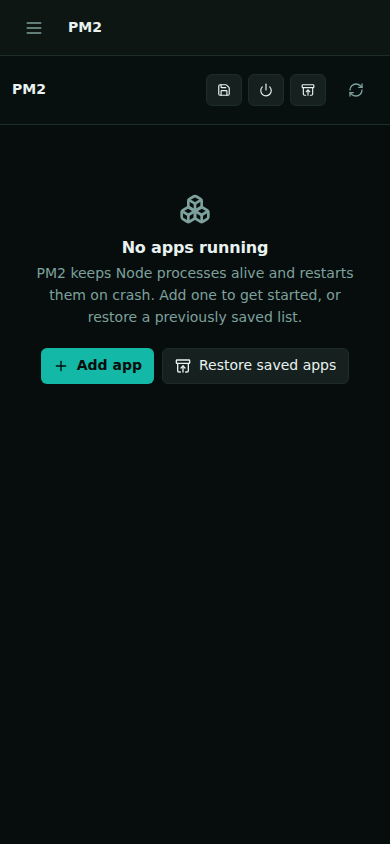
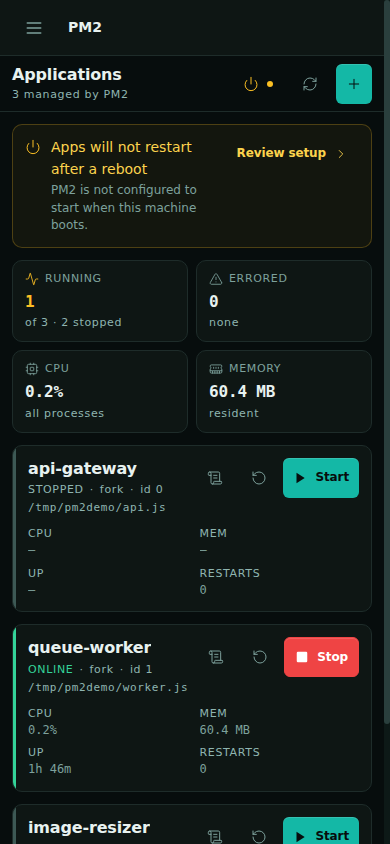
docs: update readme, refresh pm2 screenshots

diff --git a/README.md b/README.md
@@ -6,10 +6,26 @@
 
 System monitoring · file management · web terminal · process control · PM2 orchestration · Git sync
 
-[![License: MIT](https://img.shields.io/badge/License-MIT-14b8a6.svg)](./LICENSE)
-[![Node](https://img.shields.io/badge/Node-%E2%89%A518-339933.svg)](https://nodejs.org)
-[![React](https://img.shields.io/badge/React-18-61dafb.svg)](https://react.dev)
-[![TypeScript](https://img.shields.io/badge/TypeScript-5.6-3178c6.svg)](https://www.typescriptlang.org)
+[![License: MIT](https://img.shields.io/badge/License-MIT-14b8a6.svg?style=for-the-badge)](./LICENSE)
+[![PRs welcome](https://img.shields.io/badge/PRs-welcome-14b8a6.svg?style=for-the-badge)](#development)
+[![Platform: Linux](https://img.shields.io/badge/Platform-Linux-FCC624.svg?style=for-the-badge&logo=linux&logoColor=black)](#requirements)
+
+### Built with
+
+[![React](https://img.shields.io/badge/React-18-61DAFB?style=for-the-badge&logo=react&logoColor=black)](https://react.dev)
+[![TypeScript](https://img.shields.io/badge/TypeScript-5.6-3178C6?style=for-the-badge&logo=typescript&logoColor=white)](https://www.typescriptlang.org)
+[![Vite](https://img.shields.io/badge/Vite-6-646CFF?style=for-the-badge&logo=vite&logoColor=white)](https://vite.dev)
+[![Tailwind CSS](https://img.shields.io/badge/Tailwind-3-06B6D4?style=for-the-badge&logo=tailwindcss&logoColor=white)](https://tailwindcss.com)
+
+[![Node.js](https://img.shields.io/badge/Node.js-%E2%89%A518-5FA04E?style=for-the-badge&logo=nodedotjs&logoColor=white)](https://nodejs.org)
+[![Express](https://img.shields.io/badge/Express-4-000000?style=for-the-badge&logo=express&logoColor=white)](https://expressjs.com)
+[![Socket.IO](https://img.shields.io/badge/Socket.IO-4-010101?style=for-the-badge&logo=socketdotio&logoColor=white)](https://socket.io)
+[![PM2](https://img.shields.io/badge/PM2-2B037A?style=for-the-badge&logo=pm2&logoColor=white)](https://pm2.keymetrics.io)
+
+[![CodeMirror](https://img.shields.io/badge/CodeMirror-6-D30707?style=for-the-badge&logo=codemirror&logoColor=white)](https://codemirror.net)
+[![xterm.js](https://img.shields.io/badge/xterm.js-5-2C3E50?style=for-the-badge&logo=gnometerminal&logoColor=white)](https://xtermjs.org)
+[![Git](https://img.shields.io/badge/Git-F05032?style=for-the-badge&logo=git&logoColor=white)](https://git-scm.com)
+[![Systemd](https://img.shields.io/badge/systemd-30B9DB?style=for-the-badge&logo=systemd&logoColor=white)](https://systemd.io)
 
 </div>
 
@@ -43,15 +59,10 @@ It is deliberately **single-user**: one password, one operator. There are no use
 accounts, roles, or teams. That keeps the security surface small and the UI honest —
 every control on screen acts on the machine immediately.
 
-**Design principles**
-
-| Principle | What it means in practice |
-|---|---|
-| Colour carries meaning | The teal accent marks interaction only. Red/amber/green are reserved for state — never decoration. |
-| Machine data is monospaced | Hostnames, IPs, load averages and byte counts use tabular figures so columns align. |
-| Destructive actions look destructive | Service restarts and process kills are visually separated from read-only lookups. |
-| Accessible by default | WCAG 2.1 AA contrast, visible keyboard focus, `prefers-reduced-motion` respected. |
-| Responsive, not "mobile-adapted" | Every view is verified at 390 px and 1440 px. |
+It is also **host-agnostic**. Paths, the effective user, the SSH identity, the init
+system and PM2's home directory are all detected at boot rather than hard-coded, so
+the panel behaves correctly whether it runs as `root` on Debian or as a normal user
+on Ubuntu.
 
 ---
 
@@ -123,10 +134,27 @@ termination.
 
 ### PM2
 
-Start, stop, restart, reload, delete and inspect PM2 applications. Streams logs over
-WebSocket, and supports saving, restoring and boot-persisting the process list.
+Start, stop, restart, reload, delete and inspect PM2 applications. Logs stream over
+WebSocket into a single docked panel rather than expanding inline under each card.
+Stopped applications show `—` for CPU, memory and uptime instead of counting upward
+from a stale `pm_uptime`.
 
 ![PM2](docs/screenshots/PM2.png)
+
+Boot persistence is reported as three separate facts, because "will my app come back
+after a reboot?" is three questions and conflating them is how processes get lost:
+whether the PM2 daemon starts at boot, whether the process list has been saved, and
+whether an individual app restarts on crash. The panel reads PID 1 directly rather
+than trusting `pm2 startup`, which reports success on hosts where it does nothing.
+
+The **New application** wizard walks from folder → script → options → review. Only the
+name is required; memory limits, scheduled restarts, node arguments and environment
+variables live behind an *Advanced* drawer that shows a count when anything inside it
+is set.
+
+<p align="center">
+  <img src="docs/screenshots/PM2-mobile.png" width="32%" alt="PM2 on mobile" />
+</p>
 
 ### Git sync
 
@@ -215,9 +243,17 @@ Every section is a first-class mobile view — no horizontal scrolling at 390 px
 <summary><strong>PM2 orchestration</strong></summary>
 
 - Full lifecycle: start, stop, restart, reload, delete, flush, reset
-- Guided "new app" wizard with directory browsing
-- Live log streaming with search and filtering
-- Per-app metrics, `save` / `startup` / `resurrect` support
+- **Four-step "new app" wizard** — folder → script → options → review, with directory
+  browsing and detected project files. Only the name is required; memory limits,
+  scheduled restarts, node arguments and environment variables sit behind an
+  *Advanced* drawer that reports how many are set
+- Live log streaming into one docked panel, with search and filtering
+- **Honest boot persistence** — reports whether the daemon starts at boot, whether the
+  process list is saved, and whether each app restarts on crash, as three separate
+  facts. Reads PID 1 rather than trusting `pm2 startup`, and lists apps that are
+  running but missing from the saved dump
+- Per-app metrics, `save` / `resurrect` support; stopped apps report `—` rather than
+  counting uptime upward from a stale timestamp
 
 </details>
 
